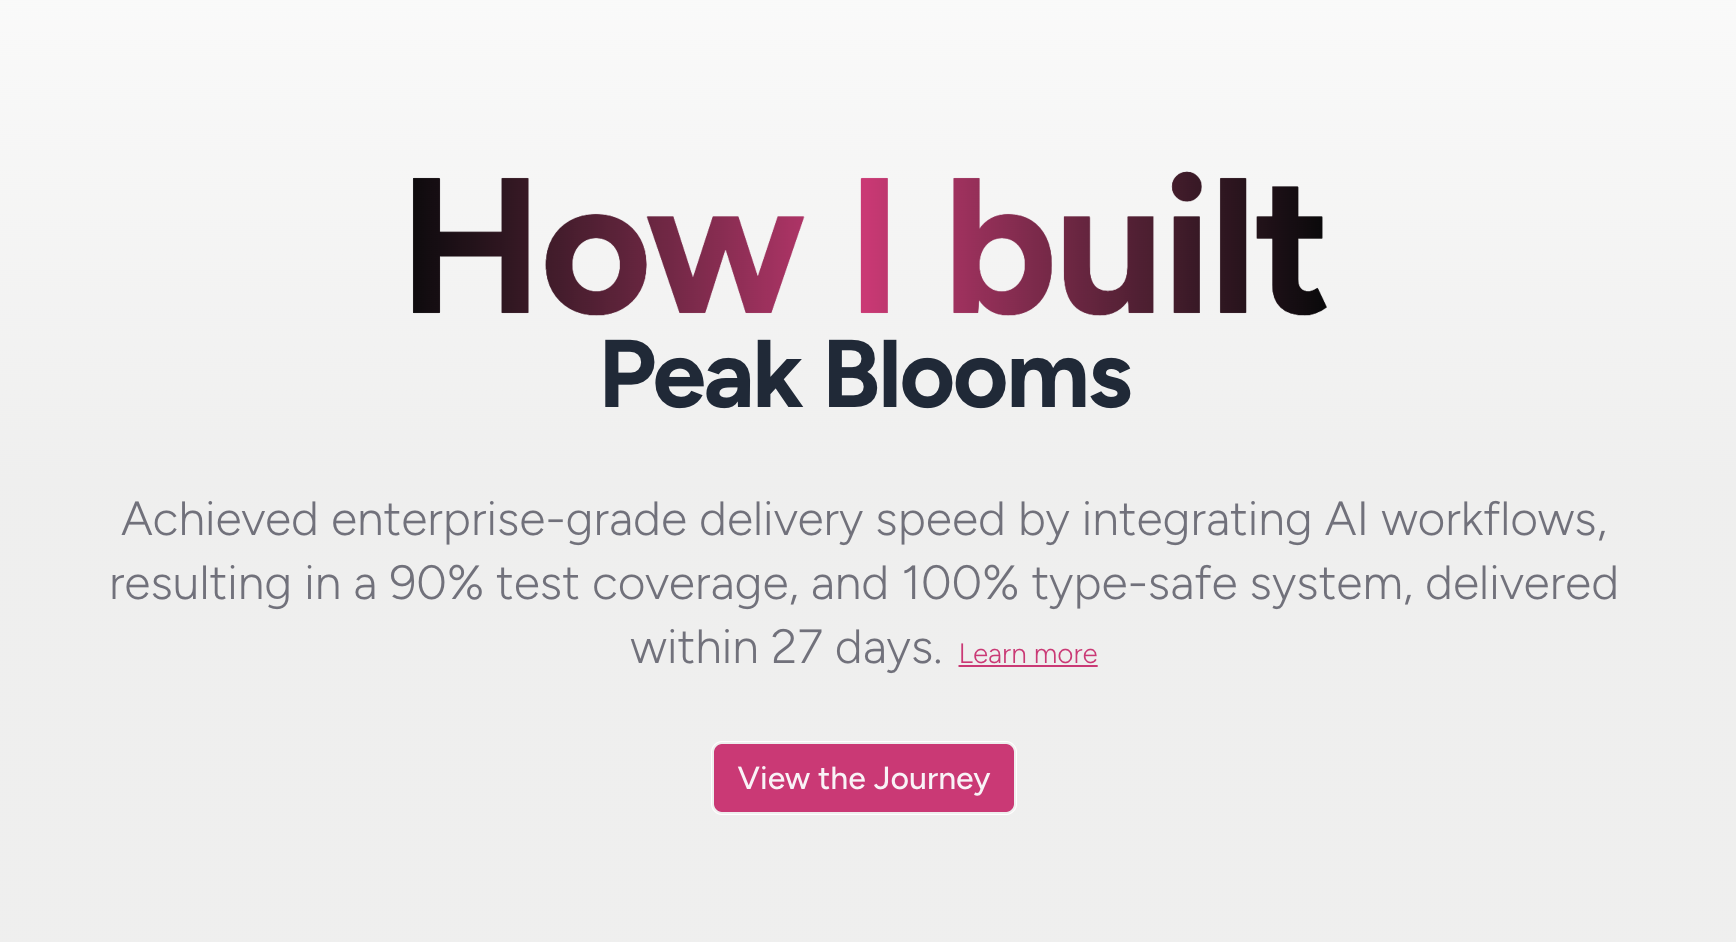
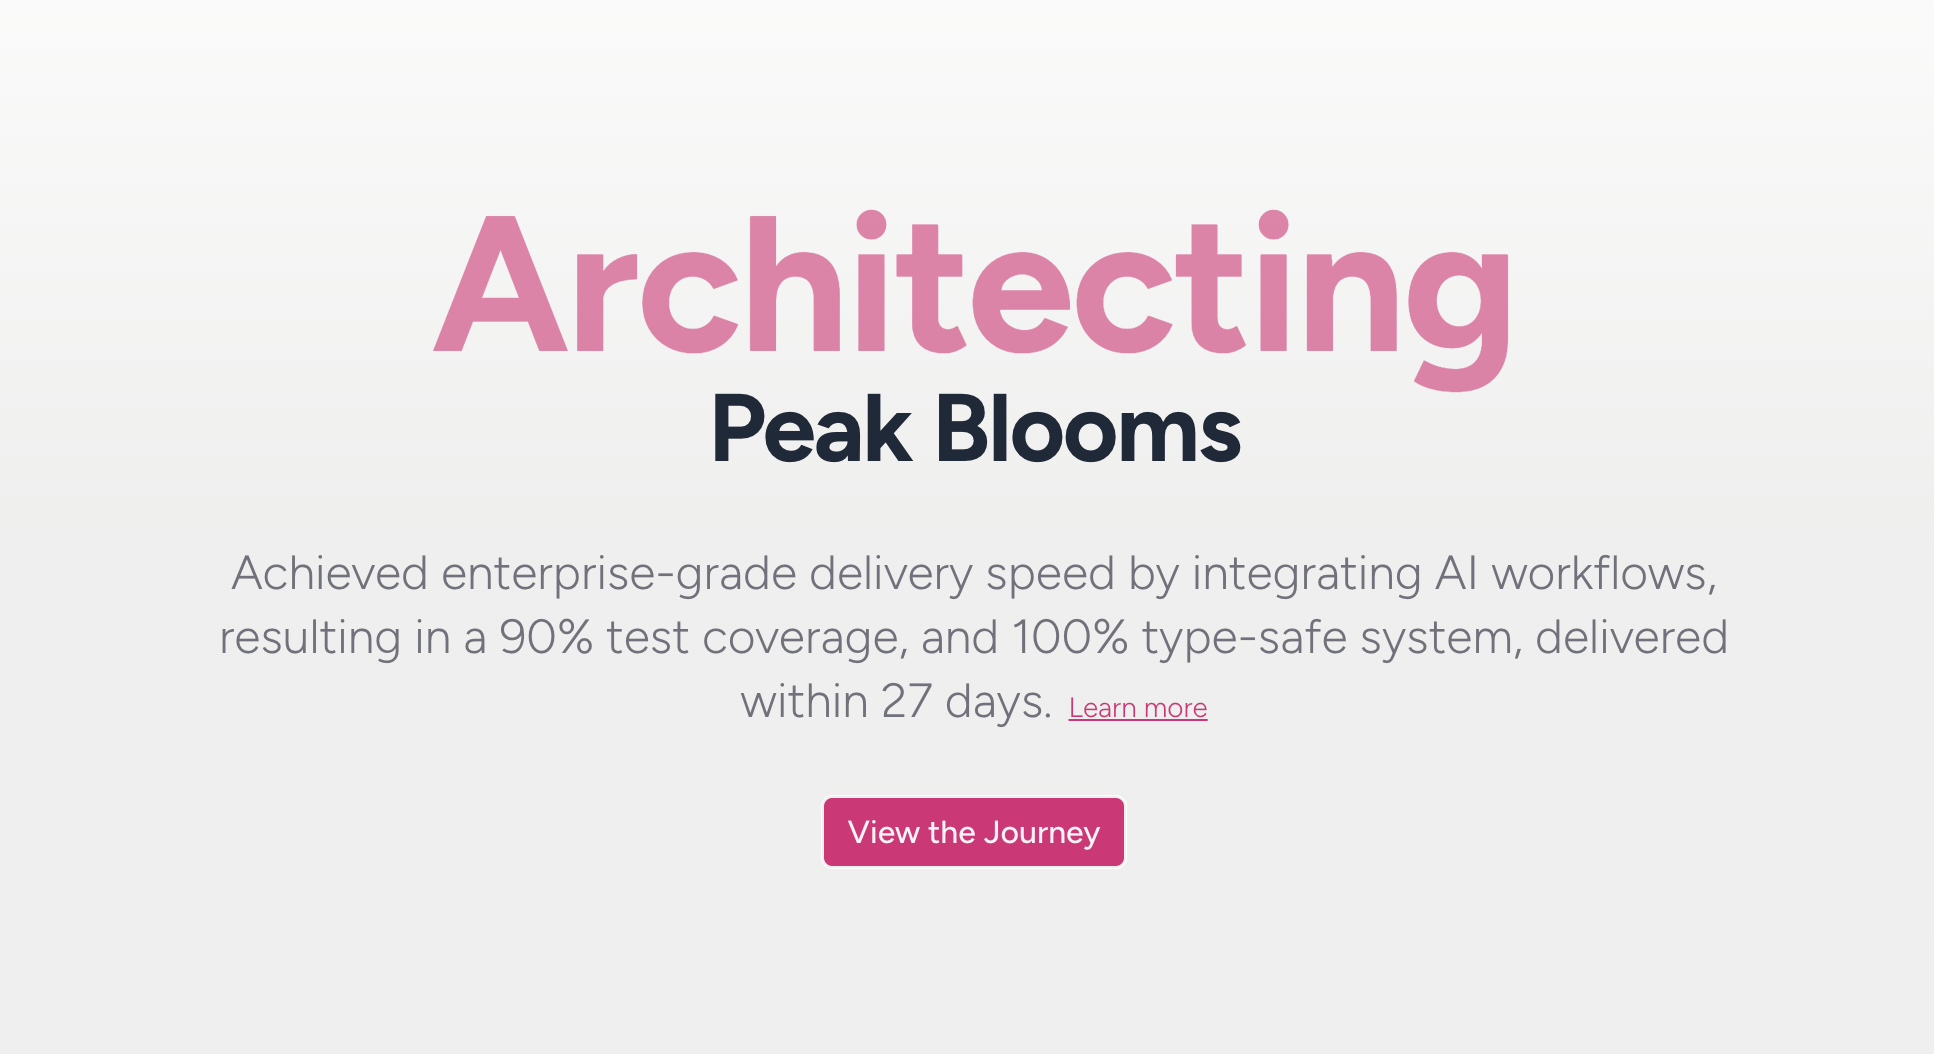
update hero

Changed region(s): [[0.0622, 0.5234, 0.9332, 0.7081], [0.2177, 0.1847, 0.7776, 0.4618], [0.4044, 0.7389, 0.591, 0.862]]

diff --git a/src/components/hero.tsx b/src/components/hero.tsx
@@ -22,8 +22,8 @@ export function Hero() {
         {/* Main heading */}
         <div className="flex flex-col justify-center items-center space-y-8">
           <h1 className="justify-center items-center flex flex-col text-5xl md:text-6xl lg:text-5xl font-bold tracking-tight">
-            <span className="leading-20 text-8xl bg-gradient-to-r from-foreground via-primary to-foreground bg-clip-text text-transparent">
-              How I built
+            <span className="leading-24 text-8xl text-primary/60">
+              Architecting
             </span>
             <span className="text-gray-800 text-5xl font-bold">
               Peak Blooms
